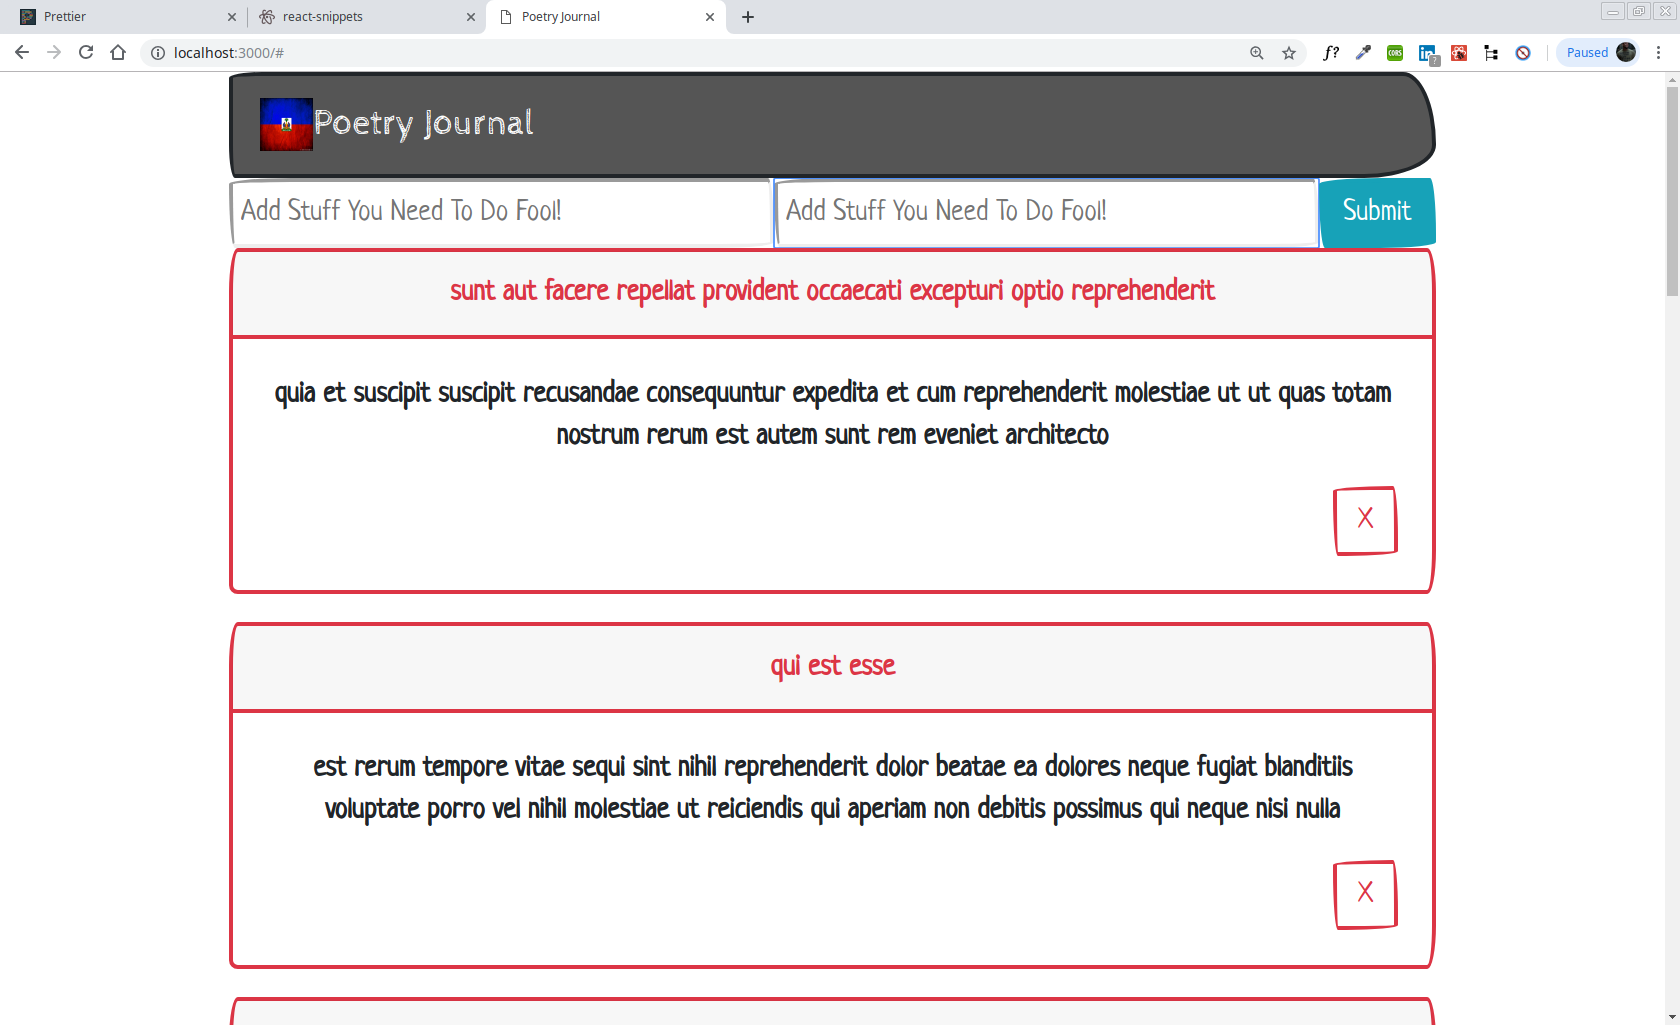
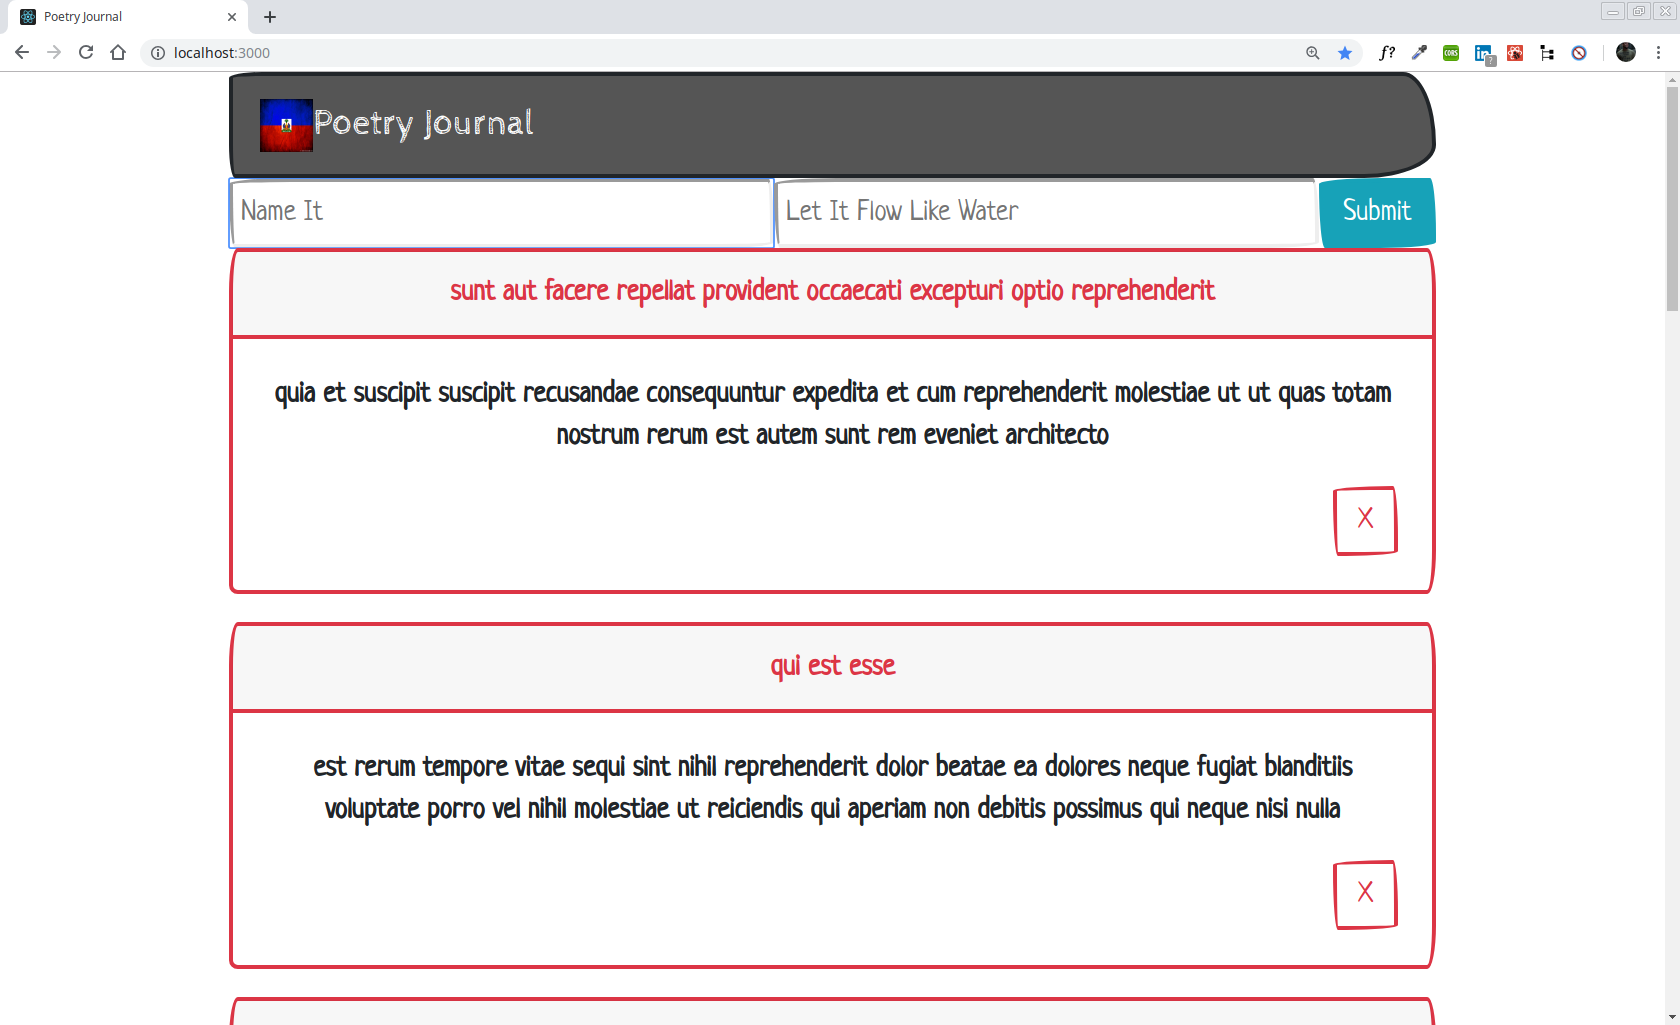
completed

diff --git a/src/App.js b/src/App.js
@@ -3,9 +3,6 @@ import Todo from './components/Todo';
 import Addtodo from './components/Addtodo';
 import Header from './components/Header';
 import axios from 'axios';
-import { Provider } from 'react-redux';
-import store from './store';
-
 import './App.css';
 
 class App extends Component {
@@ -13,9 +10,19 @@ class App extends Component {
     posts: [],
   };
 
+  componentDidMount() {
+    axios
+      .get('https://jsonplaceholder.typicode.com/posts?_limit=10')
+      .then(res =>
+        this.setState({
+          posts: res.data,
+        })
+      );
+  }
+
   // Delete Todo
   deleteTodo = id => {
-    axios.delete(`https://jsonplaceholder.typicode.com/todos/${id}`).then(res =>
+    axios.delete(`https://jsonplaceholder.typicode.com/posts/${id}`).then(res =>
       this.setState({
         posts: [...this.state.posts.filter(posts => posts.id !== id)],
       })
@@ -38,7 +45,6 @@ class App extends Component {
 
   render() {
     return (
-      <Provider store={store}>
       <div className='App'>
         <div className='container'>
           <Header />
@@ -49,7 +55,6 @@ class App extends Component {
           />{' '}
         </div>{' '}
       </div>
-      </Provider>
     );
   }
 }

diff --git a/src/components/TodoItem.js b/src/components/TodoItem.js
@@ -1,13 +1,7 @@
 import React, { Component } from 'react';
-import { connect } from 'react-redux';
-import { fetchPosts } from './actions/postActions';
 import PropTypes from 'prop-types';
 
 class TodoItem extends Component {
-  componentDidMount() {
-    this.props.fetchPost();
-  }
-
   render() {
     const { id, title, body } = this.props.posts;
 
@@ -19,7 +13,7 @@ class TodoItem extends Component {
         <div className='card-header text-center text-danger'>{title}</div>
         <div className='card-body'>
           <p className='card-text text-center '>{body}</p>
-          <button type='button' style={btnStyle} onClick={this.props.deleteTodo.bind(this, id)} className='btn btn-outline-danger'>X</button>{' '}
+          <button type='button' style={btnStyle} onClick={this.props.deleteTodo.bind(this, id)} className='btn btn-outline-danger'>X</button>
         </div>
       </div>
     );
@@ -35,4 +29,4 @@ const btnStyle = {
   float: 'right',
 };
 
-export default connect(null, { fetchPosts })(TodoItem);
+export default TodoItem;

diff --git a/src/components/Addtodo.js b/src/components/Addtodo.js
@@ -36,7 +36,7 @@ class Addtodo extends Component {
           name='title'
           onChange={this.onChange}
           value={this.state.title}
-          placeholder='Add Stuff You Need To Do Fool!'
+          placeholder='Name It'
           style={{
             flex: '10',
             padding: '5px',

diff --git a/README.md b/README.md
@@ -9,9 +9,10 @@ This is a Simple Poetry Journal application that allows you to keep track of flo
 This application is made with React.
 
 ## Optimizations.
-Implement Redux Next.
+All done
 
 ## Lessons Learned:
+I was trying to use Redux for the state but I am going to have to try to do that with another app. I took out all the redux actions, reducers and etc.
 
 ## portfolio:
 
